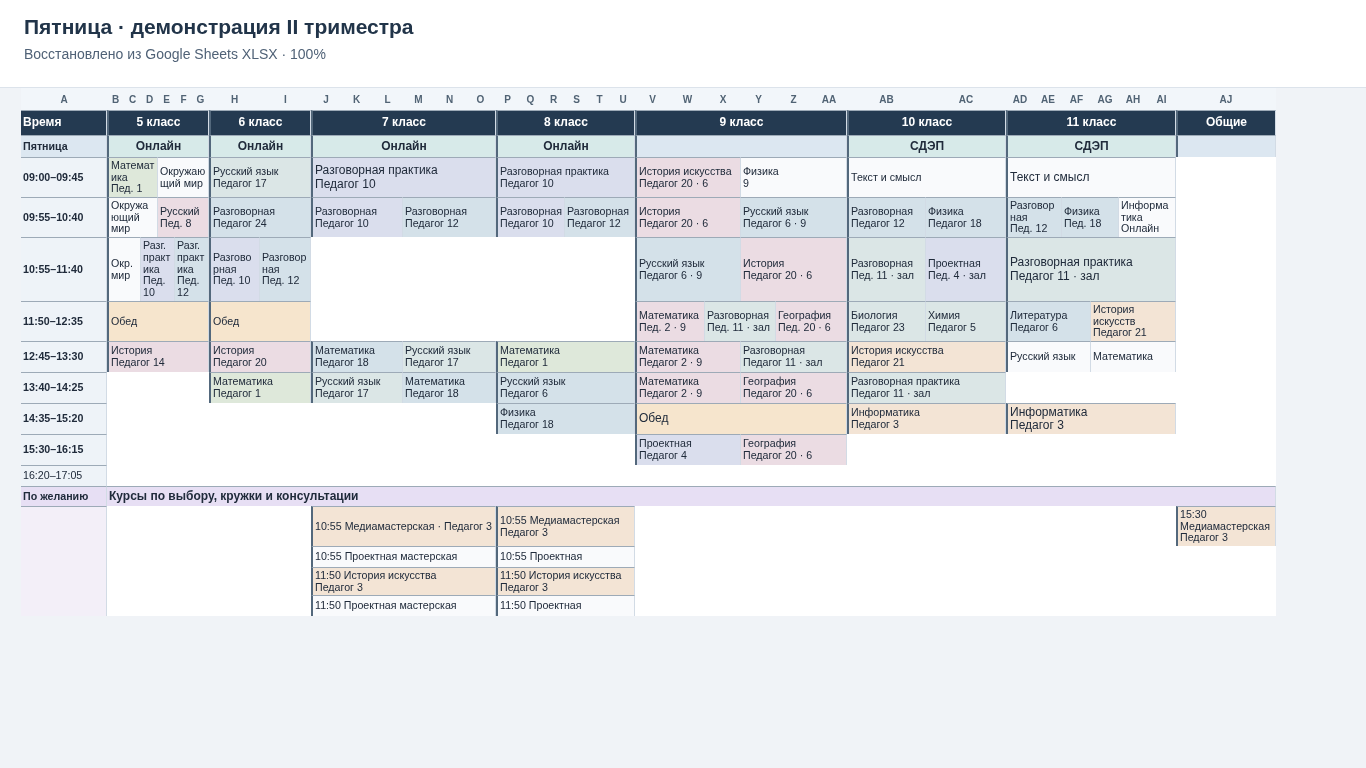
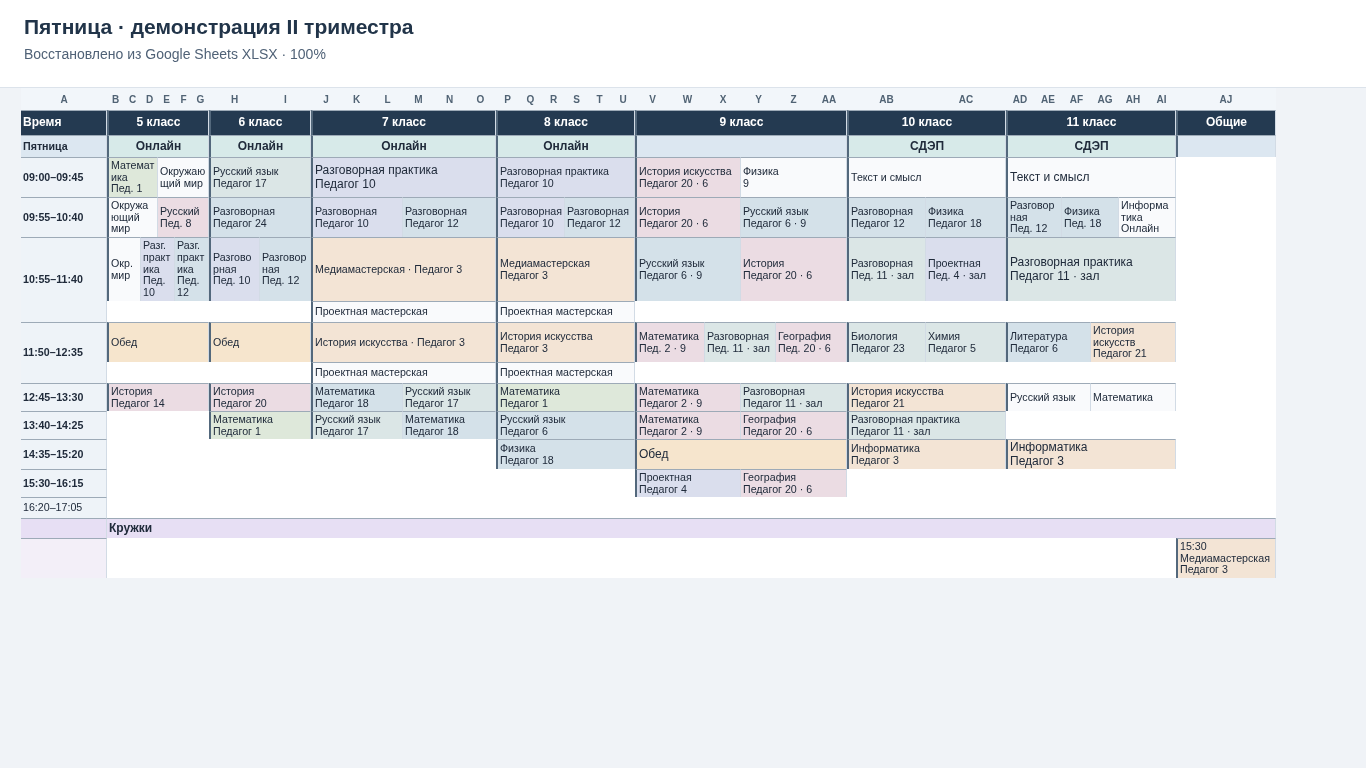
Keep electives and consultations in the main timetable

Changed region(s): [[0.0, 0.2812, 0.9531, 0.8125], [0.0, 0.3438, 0.0615, 0.375]]

diff --git a/backend/services/schedule_sheet_school_grid.py b/backend/services/schedule_sheet_school_grid.py
@@ -86,7 +86,7 @@ def describe_lesson(lesson, groups, teachers, existing_notes):
     activity = activity_semantics(lesson)
     name = activity["display_name"] or lesson["subject"]
     kind = lesson.get("activityType")
-    extra = activity["participation"] == "opt_in" or kind == "consultation"
+    club = activity["section"] == "clubs"
     formal_type = _ACTIVITY_TYPES.get(kind or activity["activity_type"])
     if kind in {"practice", "consultation", "laboratory"}:
         prefix, _, title = name.partition(" · ")
@@ -125,11 +125,11 @@ def describe_lesson(lesson, groups, teachers, existing_notes):
     bg = "#" + "".join(f"{round(value*.21+255*.79):02X}" for value in rgb)
     if lesson.get("specialMark") == "lunch":
         bg = "#F6E5CD"
-    if extra and bg == "#F7F8FA":
+    if (activity["participation"] == "opt_in" or kind == "consultation") and bg == "#F7F8FA":
         bg = "#EDE8FA"
     interval = f"{lesson['start']}–{lesson['end']}"
     return dict(name=full_name, overview_name=overview_name, classes=", ".join(labels) or "Общее занятие",
-                groups=", ".join(group_labels), staff=", ".join(staff), room=room, bg=bg, extra=extra,
+                groups=", ".join(group_labels), staff=", ".join(staff), room=room, bg=bg, club=club, elective=activity["activity_type"] == "elective",
                 group_ids=group_ids, teacher_ids=teacher_ids, interval=interval, notice=" · ".join(reasons),
                 notes=saved_notes(lesson, existing_notes))
 
@@ -152,8 +152,8 @@ def wrapped_lines(text, width, size):
     return lines
 
 
-def card_caption(info, width, *, optional, online_day=False):
-    size = 8 if optional or width < 160 else 9
+def card_caption(info, width, *, club, stacked, online_day=False):
+    size = 8 if stacked or width < 160 else 9
     room = info["room"]
     if online_day and room == "Онлайн":
         room = ""  # The grade's day band already labels the format.
@@ -167,14 +167,14 @@ def card_caption(info, width, *, optional, online_day=False):
         staff = f"Пед. {last}" if last.isdigit() else primary[0]
     metadata = " · ".join(filter(None, (staff, room)))
     title = info["overview_name"]
-    time = f"{info['interval'].split('–')[0]} " if optional else ""
+    time = f"{info['interval'].split('–')[0]} " if club else ""
     if wrapped_lines(time + title, width, size) > 1:
         title = _SHORT_TITLES.get(title, title)
     if width < 50:
         title = {"Окружающий мир": "Окр. мир", "Разговорная": "Разг. практика"}.get(title, title)
-    if optional:
+    if club:
         title = time + title
-    if optional and wrapped_lines(f"{title} · {metadata}", width, size) == 1:
+    if stacked and wrapped_lines(f"{title} · {metadata}", width, size) == 1:
         lines = [" · ".join(filter(None, (title, metadata)))]
     else:
         lines = [line for line in (title, metadata) if line]
@@ -199,14 +199,14 @@ def build_school_grid(snapshot, by_day, groups, teachers, classes, *, title, she
     # Lanes divide the budget of their grade. Only links and source IDs connect
     # repeated display cards for cross-class and multi-period activities.
     rows_by_slot = defaultdict(lambda: defaultdict(list))
-    optional_by_day = defaultdict(lambda: defaultdict(list))
+    clubs_by_day = defaultdict(lambda: defaultdict(list))
     for day, lessons in by_day.items():
         for lesson in lessons:
-            extra = info[str(lesson["id"])]["extra"]
+            club = info[str(lesson["id"])]["club"]
             targets = {grade_by_class[c] for c in lesson["classIds"]} or {None}
-            if extra:
+            if club:
                 for grade in targets:
-                    optional_by_day[day][grade].append((lesson, False))
+                    clubs_by_day[day][grade].append((lesson, False))
                 continue
             starts = [lesson["start"], *(bell for bell in bell_times if lesson["start"] < bell < lesson["end"])]
             for index, start in enumerate(starts):
@@ -214,7 +214,8 @@ def build_school_grid(snapshot, by_day, groups, teachers, classes, *, title, she
                     rows_by_slot[day, start][grade].append((lesson, index > 0))
     seats = {}
     for grade in grades:
-        counts = {len(section[grade]) for section in rows_by_slot.values() if grade in section} or {1}
+        counts = {sum(not info[str(lesson["id"])]["elective"] for lesson, _ in section[grade])
+                  for section in rows_by_slot.values() if grade in section} - {0} or {1}
         # Equal-width results for 2 and 3 visible groups in the same grade.
         common = lcm(*counts)
         seats[grade] = common if common <= 12 else max(counts)
@@ -269,15 +270,15 @@ def build_school_grid(snapshot, by_day, groups, teachers, classes, *, title, she
             cell(row, 1, caption, width=columns-1, bg="#DCE7F1", bold=True)
             heights[row] = 22
         row += 1
-        for extra in (False, True):
-            if extra:
-                if not optional_by_day[day]:
+        for club in (False, True):
+            if club:
+                if not clubs_by_day[day]:
                     continue
-                cell(row, 0, "По желанию", bg="#E7DFF4", bold=True, size=8)
-                cell(row, 1, "Курсы по выбору, кружки и консультации", width=columns-1, bg="#E7DFF4", bold=True)
+                cell(row, 0, "", bg="#E7DFF4", bold=True, size=8)
+                cell(row, 1, "Кружки", width=columns-1, bg="#E7DFF4", bold=True)
                 heights[row] = 20
                 row += 1
-                windows = [("", optional_by_day[day])]
+                windows = [("", clubs_by_day[day])]
             else:
                 starts = set(bell_times) | {start for weekday, start in rows_by_slot if weekday == day}
                 windows = [(start, rows_by_slot.get((day, start), {})) for start in sorted(starts)]
@@ -285,39 +286,50 @@ def build_school_grid(snapshot, by_day, groups, teachers, classes, *, title, she
                 ends = {lesson["end"] for entries in sections.values() for lesson, _ in entries}
                 stop = bell_times.get(start) or (next(iter(ends)) if len(ends) == 1 else "")
                 time = f"{start}–{stop}" if stop else f"с {start}"
-                height = max((len(entries) for entries in sections.values()), default=1) if extra else 1
-                cell(row, 0, "" if extra else time, bg="#F3EFF8" if extra else "#EEF3F8", bold=bool(sections), size=8, height=height)
-                for offset in range(height):
-                    heights[row + offset] = 21 if extra or not sections else 31
-                slot_ranges.append({"start": row, "end": row + height})
+                # A grade uses one horizontal row for parallel lessons, then one
+                # full-width row per choice within the same time band.
+                placements = []
+                height = 1
                 for grade, entries in sorted(sections.items(), key=lambda section: columns_by_grade[section[0]]):
                     ordered = sorted(entries, key=lambda entry: (entry[0]["start"], group_order(entry[0], groups)))
+                    parallel, stacked = [], []
+                    for entry in ordered:
+                        details = info[str(entry[0]["id"])]
+                        (stacked if club or details["elective"] else parallel).append(entry)
                     count = seats[grade]
                     first_col = columns_by_grade[grade]
-                    for index, (lesson, continuation) in enumerate(ordered):
-                        lesson_id = str(lesson["id"])
-                        details = info[lesson_id]
-                        card_row = row + index if extra else row
-                        if extra:
-                            col, width = first_col, count
-                        else:
-                            col = first_col + index * count // len(ordered)
-                            width = first_col + (index + 1) * count // len(ordered) - col
-                        anchor = lesson_id not in mapping
-                        text, size, text_height = card_caption(details, sum(widths[col:col+width]), optional=extra,
-                                                             online_day=modes.get(grade) == "Онлайн")
-                        heights[card_row] = max(heights[card_row], text_height)
-                        linked_cards[lesson_id].append(cell(card_row, col, text, width=width, bg=details["bg"],
-                            size=size, note="\n".join(details["notes"]) if anchor else ""))
-                        if anchor:
-                            mapping[lesson_id] = dict(lesson_id=lesson_id, source_lesson_ids=lesson["_source_ids"],
-                                source_hashes=lesson["_source_hashes"], logical_id=lesson["_logical_id"],
-                                row=card_row, col=col, segment_start=lesson["start"], segment_end=lesson["end"],
-                                day=day, class_ids=lesson["classIds"],
-                                grade_numbers=sorted({grade_by_class[c] for c in lesson["classIds"]}),
-                                group_ids=details["group_ids"], teacher_ids=details["teacher_ids"], references=[], rows=1)
-                        else:
-                            mapping[lesson_id]["references"].append({"row": card_row, "col": col, **({"continuation": True} if continuation else {})})
+                    for index, entry in enumerate(parallel):
+                        left = index * count // len(parallel)
+                        right = (index + 1) * count // len(parallel)
+                        placements.append((grade, entry, 0, first_col + left, right - left, False))
+                    offset = int(bool(parallel))
+                    for index, entry in enumerate(stacked):
+                        placements.append((grade, entry, offset + index, first_col, count, True))
+                    height = max(height, offset + len(stacked))
+                cell(row, 0, "" if club else time, bg="#F3EFF8" if club else "#EEF3F8",
+                     bold=bool(sections), size=8, height=height)
+                for offset in range(height):
+                    heights[row + offset] = 21
+                slot_ranges.append({"start": row, "end": row + height})
+                for grade, (lesson, continuation), offset, col, width, stacked in placements:
+                    lesson_id = str(lesson["id"])
+                    details = info[lesson_id]
+                    card_row = row + offset
+                    anchor = lesson_id not in mapping
+                    text, size, text_height = card_caption(details, sum(widths[col:col+width]), club=club, stacked=stacked,
+                                                         online_day=modes.get(grade) == "Онлайн")
+                    heights[card_row] = max(heights[card_row], text_height)
+                    linked_cards[lesson_id].append(cell(card_row, col, text, width=width, bg=details["bg"],
+                        size=size, note="\n".join(details["notes"]) if anchor else ""))
+                    if anchor:
+                        mapping[lesson_id] = dict(lesson_id=lesson_id, source_lesson_ids=lesson["_source_ids"],
+                            source_hashes=lesson["_source_hashes"], logical_id=lesson["_logical_id"],
+                            row=card_row, col=col, segment_start=lesson["start"], segment_end=lesson["end"],
+                            day=day, class_ids=lesson["classIds"],
+                            grade_numbers=sorted({grade_by_class[c] for c in lesson["classIds"]}),
+                            group_ids=details["group_ids"], teacher_ids=details["teacher_ids"], references=[], rows=1)
+                    else:
+                        mapping[lesson_id]["references"].append({"row": card_row, "col": col, **({"continuation": True} if continuation else {})})
                 row += height
 
     overview_rows = row

diff --git a/backend/tests/test_schedule_sheet_publishing.py b/backend/tests/test_schedule_sheet_publishing.py
@@ -284,7 +284,7 @@ class SchedulePublishingTests(unittest.TestCase):
         self.assertEqual(notes, ["Возьмите тетрадь."])
         self.assertLessEqual(max(plan["row_heights"].values()), 88)
 
-    def test_bell_times_and_colored_links_survive_a_friday_laboratory_and_optional_activity(self):
+    def test_bell_times_and_course_choices_stay_in_the_grid_with_clubs_below(self):
         from backend.services.schedule_sheet_export import build_sheet_plan, freeze_template, sheets_requests
         groups = [{"id": str(grade), "name": str(grade), "group_type": "class"} for grade in range(5, 12)]
         lessons = [
@@ -296,6 +296,12 @@ class SchedulePublishingTests(unittest.TestCase):
              "activityType": "club"},
             {"id": "elective", "day": 4, "period": 1, "classIds": ["5"], "subject": "История искусства",
              "activityType": "elective", "teacherId": "teacher", "room": "каб. 12"},
+            {"id": "elective-2", "day": 4, "period": 1, "classIds": ["5"], "subject": "Шахматы",
+             "activityType": "elective"},
+            {"id": "consultation", "day": 4, "period": 1, "classIds": ["6"], "subject": "Английский язык",
+             "activityType": "consultation"},
+            {"id": "practice", "day": 4, "period": 1, "classIds": ["9"], "subject": "Физика",
+             "activityType": "practice"},
         ]
         snapshot = freeze_template({"groups": groups, "teachers": [{"id": "teacher", "display_name": "Тест"}],
             "source": {"draft_id": "draft"}, "payload": {"classes": [g["id"] for g in groups], "days": [4],
@@ -313,12 +319,16 @@ class SchedulePublishingTests(unittest.TestCase):
                             for c in cards))
         self.assertEqual(sum(bool(ref.get("continuation")) for ref in lab["references"]), 2)
         self.assertIn("09:00–10:40", cells[lab["details_row"], 1]["text"])
-        self.assertIn("Курсы по выбору, кружки и консультации", cells[friday+3, 1]["text"])
-        club = next(m for m in plan["mapping"] if m["lesson_id"] == "club")
-        self.assertGreater(club["row"], friday+3)
-        elective = next(m for m in plan["mapping"] if m["lesson_id"] == "elective")
-        self.assertEqual(elective["col"], club["col"])
-        self.assertNotEqual(elective["row"], club["row"])
+        club_header = next(c["row"] for c in cells.values() if c["text"] == "Кружки")
+        by_id = {m["lesson_id"]: m for m in plan["mapping"]}
+        self.assertGreater(by_id["club"]["row"], club_header)
+        for lesson in ("art", "elective", "elective-2", "consultation", "practice"):
+            self.assertLessEqual(friday + 2, by_id[lesson]["row"])
+            self.assertLess(by_id[lesson]["row"], club_header)
+        self.assertEqual(by_id["elective"]["col"], by_id["elective-2"]["col"])
+        self.assertEqual(by_id["elective"]["row"] + 1, by_id["elective-2"]["row"])
+        self.assertEqual(cells[friday + 2, 0]["height"], club_header - friday - 2)
+        elective = by_id["elective"]
         self.assertIn("Тест", cells[elective["row"], elective["col"]]["text"])
         class_cols = {cells[0, c["start"]]["text"]: c for c in plan["class_columns"]}
         self.assertEqual(cells[friday, class_cols["5 класс"]["start"]]["text"], "Онлайн")

diff --git a/backend/services/schedule_sheet_publishing.py b/backend/services/schedule_sheet_publishing.py
@@ -22,7 +22,7 @@ from backend.services.schedule_experiments import ExperimentConflict, get_experi
 from backend.services.schedule_sheet_export import build_sheet_plan, freeze_template, freeze_week, sheets_requests
 
 TEST_EXPORT_TARGET = "11VZK05M0QNV3sGny2PLWL3_yiuyuQSVnj-6QtIa5cDQ"
-EXPORT_POLICY = "school-grid-class-v4"
+EXPORT_POLICY = "school-grid-class-v5"
 PREVIOUS_POLICY = "compact-activities-v3"
 LEGACY_WEEK_POLICY = "compact-activities-v2"
 
@@ -134,7 +134,7 @@ def prepare_export(database: Database, experiment_id: str, *, expected_revision:
     with database.connection() as connection:
         existing = database.execute(connection, "SELECT * FROM schedule_sheet_exports WHERE export_key=?", (digest,)).fetchone()
         if existing is None:
-            for policy in ("school-grid-day-v3", "school-grid-horizontal-v2", "school-grid-v1", PREVIOUS_POLICY, *([LEGACY_WEEK_POLICY] if week else [])):
+            for policy in ("school-grid-class-v4", "school-grid-day-v3", "school-grid-horizontal-v2", "school-grid-v1", PREVIOUS_POLICY, *([LEGACY_WEEK_POLICY] if week else [])):
                 if policy == EXPORT_POLICY:
                     continue
                 legacy = database.execute(connection, "SELECT * FROM schedule_sheet_exports WHERE export_key=?",

diff --git a/docs/reports/school-sheet-export/class-layout/README.md b/docs/reports/school-sheet-export/class-layout/README.md
@@ -1,6 +1,6 @@
 # Расписание с закреплёнными классами
 
-Верхняя строка листа содержит время и классы. Строка каждого дня подписывает фактический режим по параллелям. В пятницу 5–8-е классы отмечены «Онлайн», а 10-й и 11-й — «СДЭП». Параллельные уроки идут в стабильном порядке. Курсы по выбору, кружки и консультации стоят друг под другом на всю ширину своей параллели, начиная со времени занятия.
+Верхняя строка листа содержит время и классы. Строка каждого дня подписывает фактический режим по параллелям. В пятницу 5–8-е классы отмечены «Онлайн», а 10-й и 11-й — «СДЭП». Параллельные уроки идут в стабильном порядке. Курсы по выбору, консультации и практикумы стоят в основном расписании в своё время. Одновременные курсы по выбору одного класса идут друг под другом под одним временем звонка. Кружки собраны в отдельном блоке ниже.
 
 | Класс | 5 | 6 | 7 | 8 | 9 | 10 | 11 | Общие |
 | --- | ---: | ---: | ---: | ---: | ---: | ---: | ---: | ---: |
@@ -8,4 +8,4 @@
 
 В карточке видны название, преподаватель и кабинет. Для практикумов, консультаций и лабораторий указан вид занятия. В тесных ячейках используются короткие школьные названия, а полная запись открывается по ссылке из ячейки. Время обычных уроков остаётся в колонке звонков.
 
-Снимки сделаны на обезличенном расписании r98 по XLSX из тестовой Google-книги при 1366×768 и масштабе 100%. Ширина всей сетки 1255 px. Высота по дням с понедельника по пятницу составила 528, 449, 531, 542 и 506 px. Проверены закрепление верхней строки, ссылки и 365 исходных ID. [Понедельник](monday.png) · [Среда](wednesday.png) · [Пятница](friday.png) · [Тестовый лист](https://docs.google.com/spreadsheets/d/1DWB20meRVsS7nKLBqX0LSoQ2PZcTmzrnFS6WE9qhbwk/edit#gid=730150&range=A58)
+Снимки сделаны на обезличенном расписании r98 по XLSX из тестовой Google-книги при 1366×768 и масштабе 100%. Ширина всей сетки 1255 px. Высота по дням с понедельника по пятницу составила 523, 439, 549, 506 и 468 px. Проверены закрепление верхней строки, ссылки и 365 исходных ID. [Понедельник](monday.png) · [Среда](wednesday.png) · [Пятница](friday.png) · [Тестовый лист](https://docs.google.com/spreadsheets/d/1DWB20meRVsS7nKLBqX0LSoQ2PZcTmzrnFS6WE9qhbwk/edit#gid=730152&range=A27)
